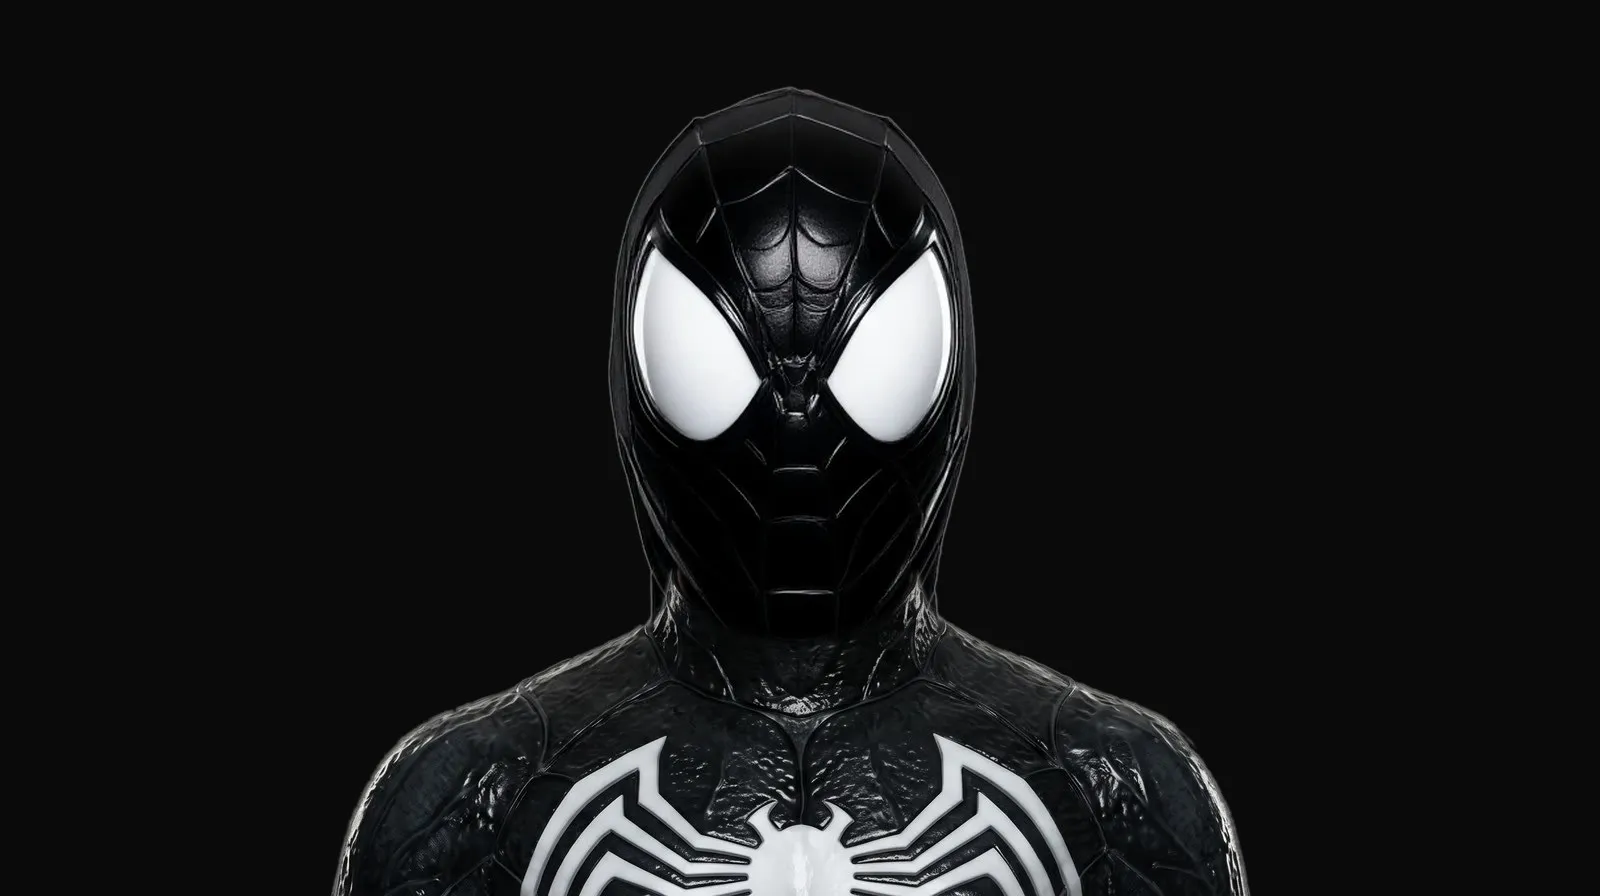
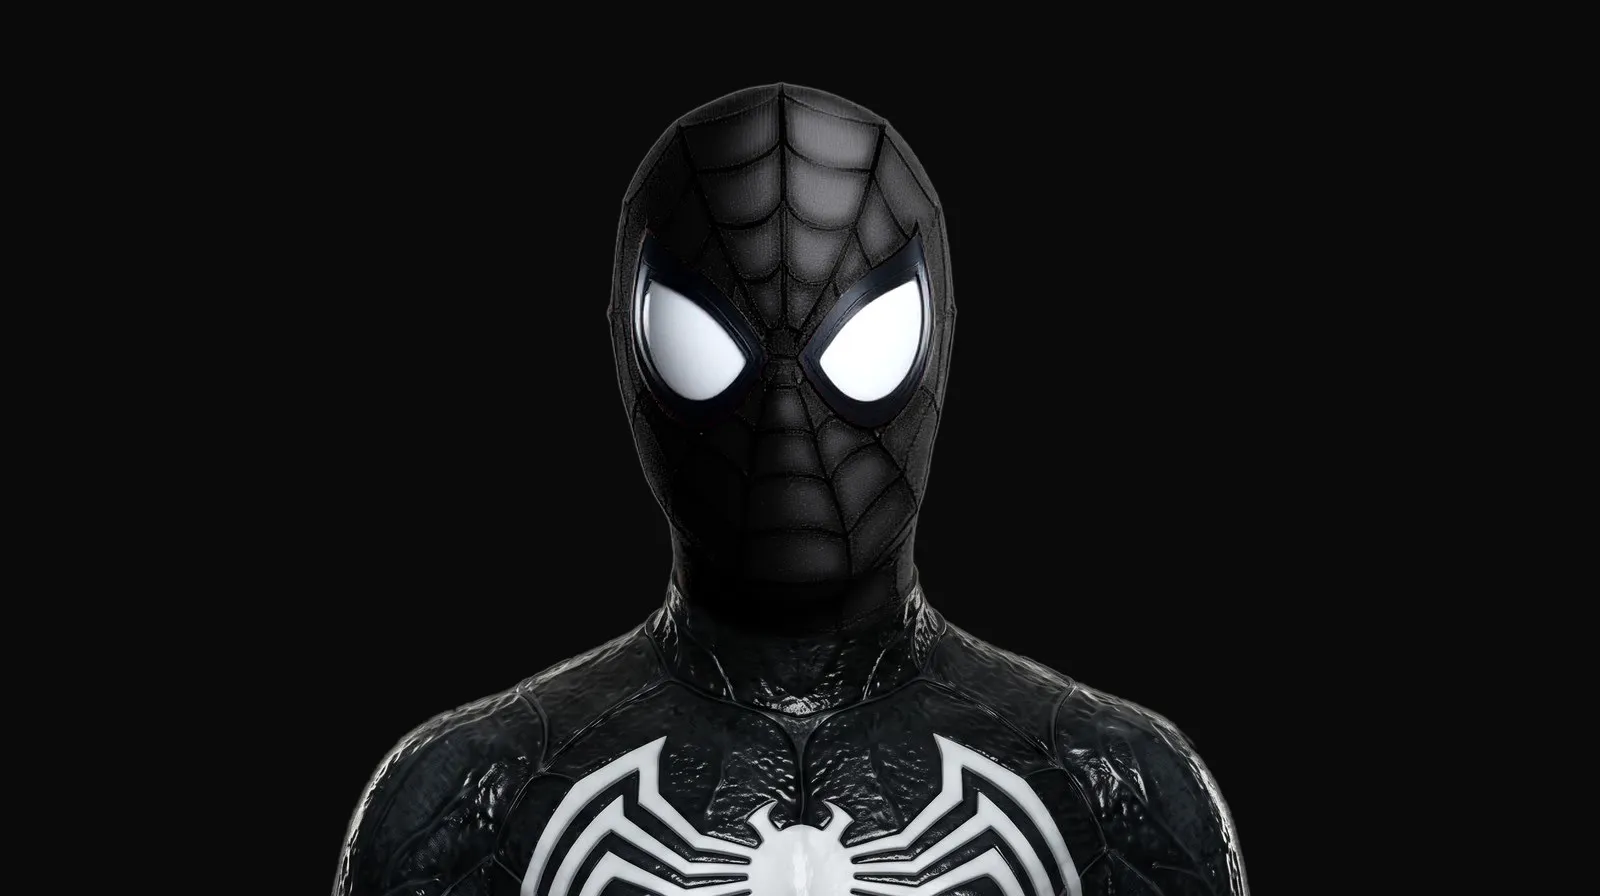
Symbiote hero head recoloured from the red mask
The Gemini symbiote mask had no chin and a jaw-wide neck, so it sat on the hero like a helmet.
scripts/black-suit.py recolours the red masked render (same head shape and lens alignment) to a
black suit, which head-swap.py puts on the symbiote body.

Changed region(s): [[0.375, 0.0938, 0.625, 0.6875]]

diff --git a/scripts/black-suit.py b/scripts/black-suit.py
@@ -1,0 +1,40 @@
+"""Turn the red masked render into a black-suit one with exactly the same head.
+
+The Gemini symbiote mask had no chin and a neck as wide as its jaw, so on the hero it read as a big
+helmet. Recolouring the red mask instead keeps the head shape (and the lens alignment) that already
+fits the face; head-swap.py then puts it on the symbiote body.
+
+    python scripts/black-suit.py ~/Downloads/585fe0d9a0414c96c02e3eb19ac67895.webp OUT.png
+    python scripts/head-swap.py FACE_SYMBIOTE OUT.png public/img/symbiote/hero-mask.jpg --dx -16 --dy 56
+    python scripts/darken-bg.py public/img/symbiote/hero-mask.jpg
+
+Needs: pip install pillow numpy scipy
+"""
+
+import sys
+
+import numpy as np
+from PIL import Image
+from scipy import ndimage
+
+src = np.asarray(Image.open(sys.argv[1]).convert("RGB"), np.float32)
+bg = src[5:40, 5:40].reshape(-1, 3).mean(0)
+r, g, b = src[..., 0], src[..., 1], src[..., 2]
+
+# Only the red fabric (and its dark web lines) changes; lenses, their black rims and the backdrop stay.
+reddish = r > np.maximum(g, b) + 15
+# Antialiased edges are part suit, part backdrop; green says how much backdrop, so the edge can be
+# recoloured without leaving a pink fringe.
+alpha = np.where(reddish, np.clip((bg[1] - g) / (bg[1] - 20), 0, 1), 0)
+suit = np.clip(np.where(alpha > 0.05, (r - (1 - alpha) * bg[0]) / np.maximum(alpha, 0.05), 0), 0, 255)
+
+suit = ndimage.median_filter(suit, size=5)  # knit texture gone, web lines kept
+lum = (suit / 255.0) ** 2.4 * 26
+broad = ndimage.gaussian_filter(suit, 5)
+sheen = np.clip((broad - 165) / 90, 0, 1) ** 2 * 150  # broad soft highlights, like latex
+grey = np.clip(lum + sheen, 0, 255)
+black = np.stack([grey, grey, grey * 1.05], -1)
+
+out = np.where(reddish[..., None], black * alpha[..., None] + (1 - alpha[..., None]) * bg, src)
+Image.fromarray(np.clip(out, 0, 255).round().astype(np.uint8)).save(sys.argv[2])
+print(f"{sys.argv[2]}: black suit from {sys.argv[1].split('/')[-1]}")
